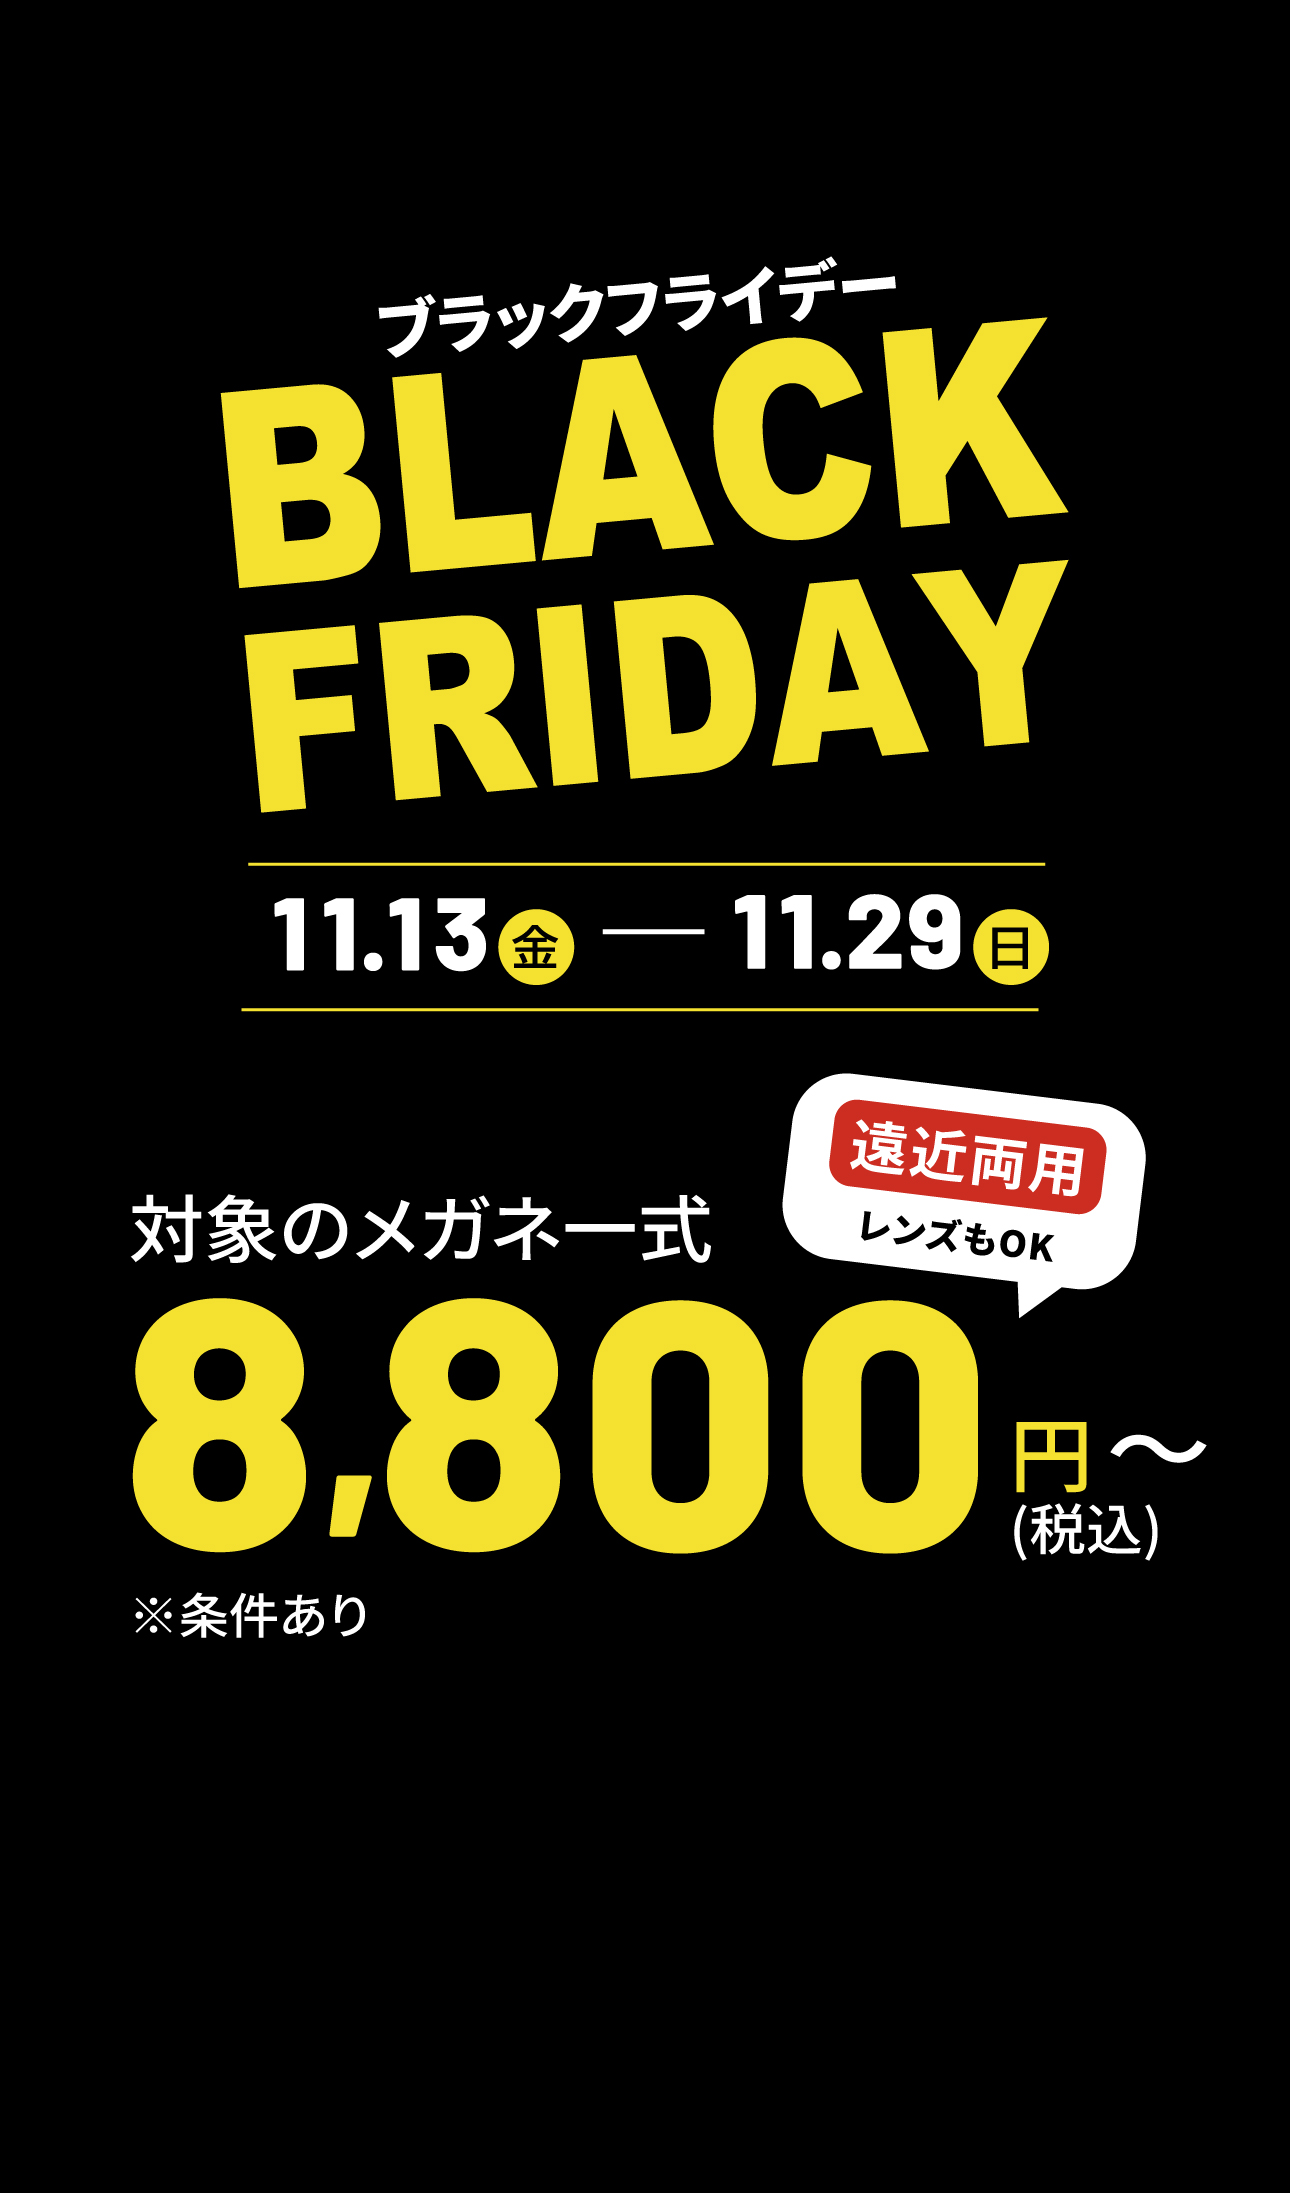
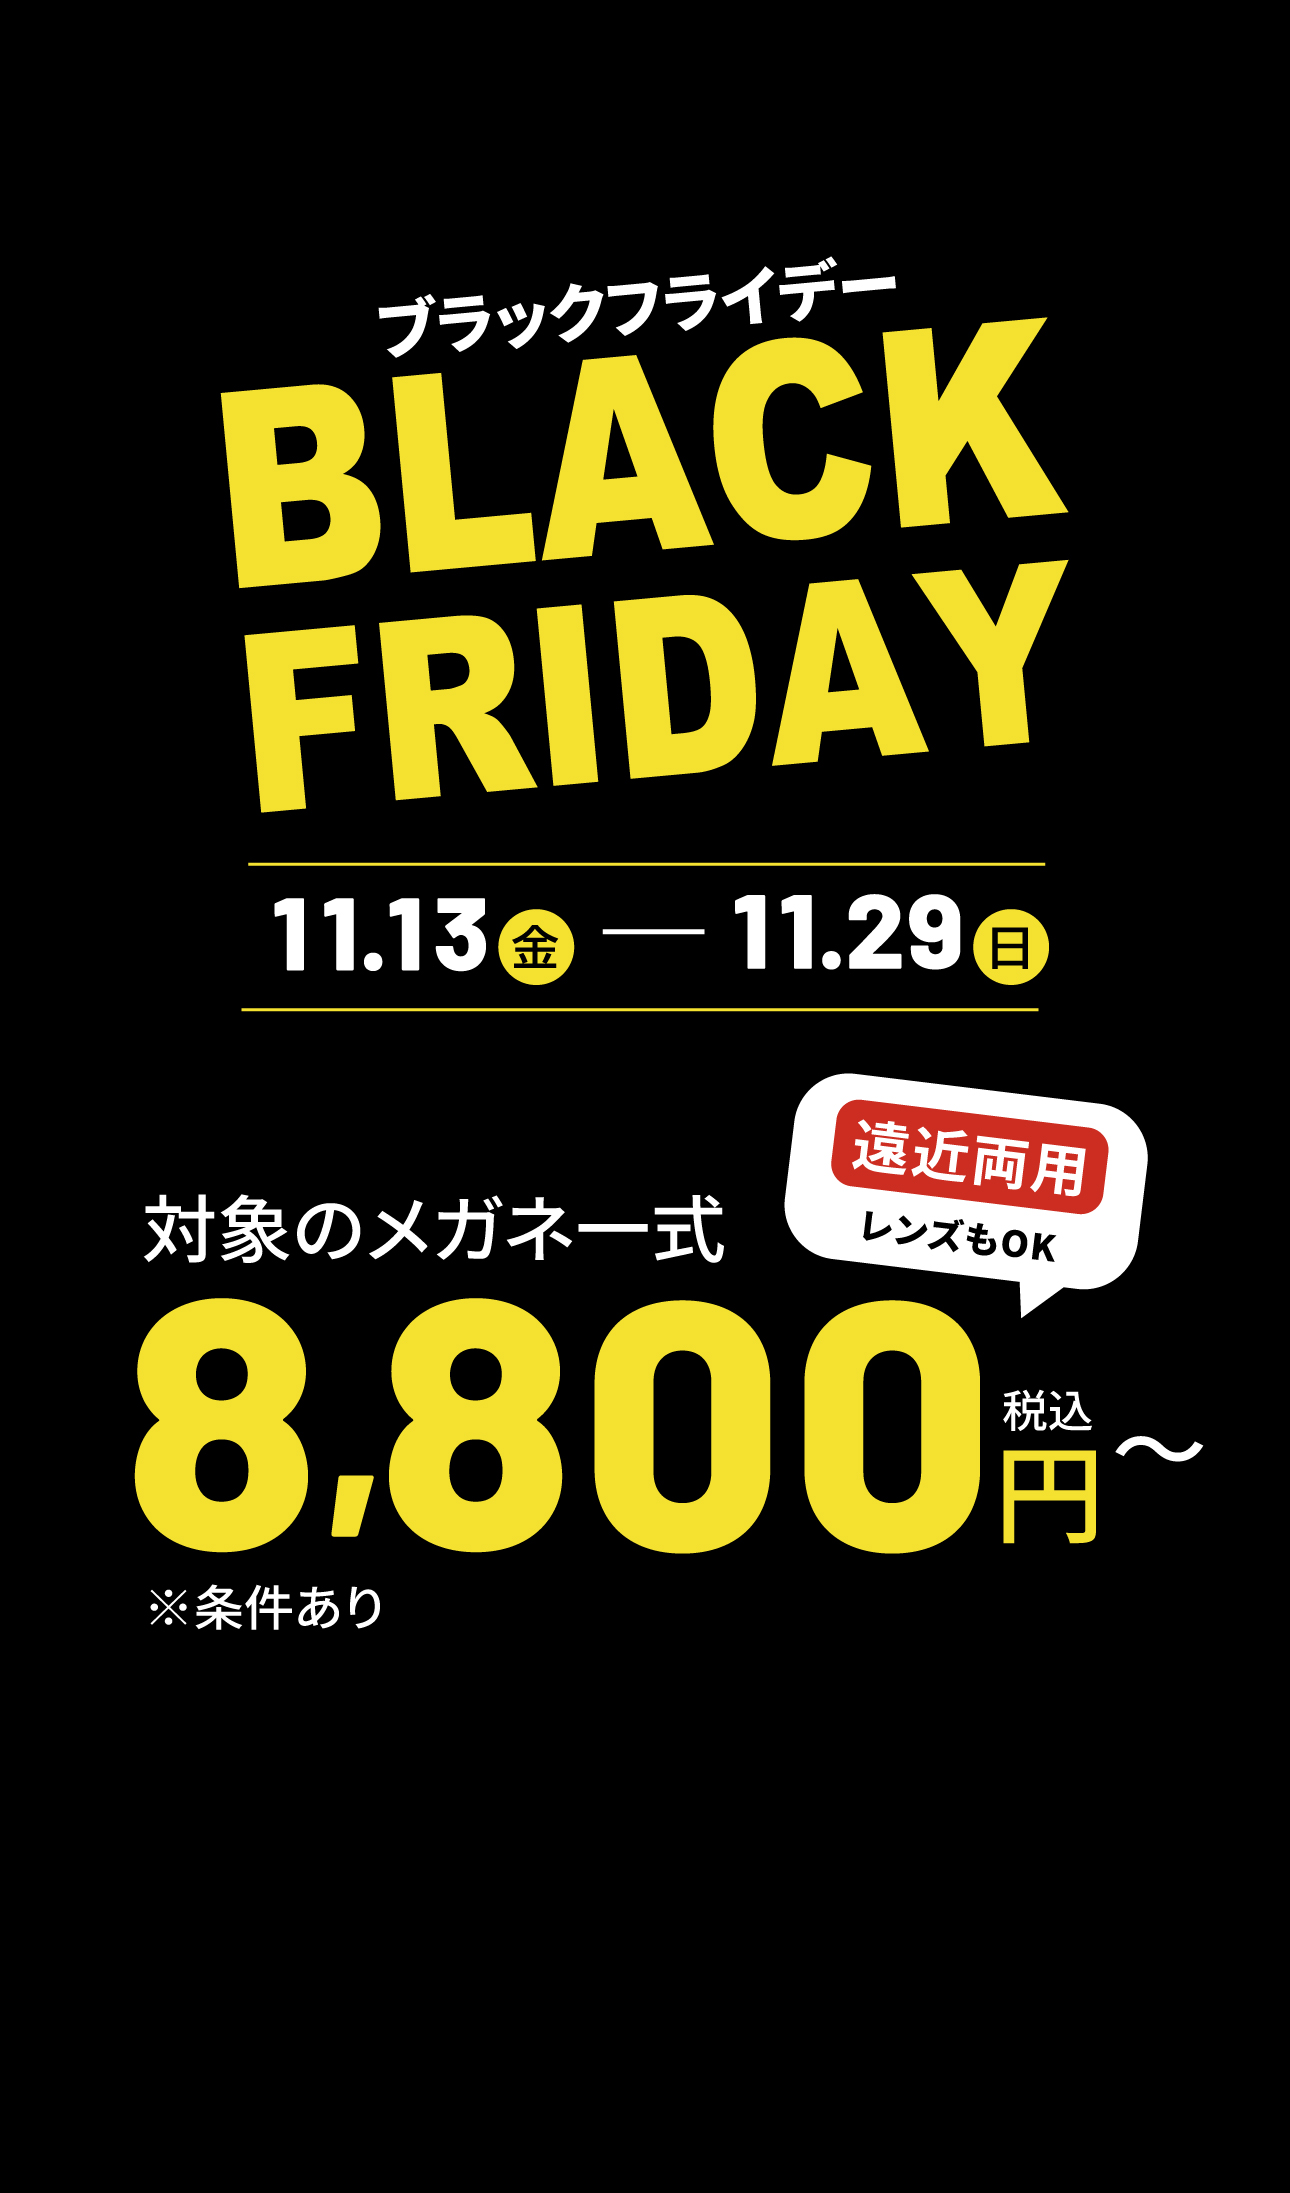
お得な内容：バッジをまっすぐ・遠近両用レンズを全面マーカー・税込を円の上に

diff --git a/index.html b/index.html
@@ -1603,10 +1603,19 @@
   .st4-hero-u .st4-tax { font-family: 'Noto Sans JP', sans-serif; font-size: 15px; font-weight: 900; margin: 4px 0 0 -2px; }
   @media (max-width: 1023px) { .st4 > .st4-hero { width: fit-content; margin-left: auto; margin-right: auto; display: flex; flex-direction: column; align-items: flex-start; } } /* スマホもバッジを「遠近両用レンズ」の左はしにそろえる（かたまりは真ん中・Iさん） */
   @media (max-width: 1023px) { .st4 > .st4-hero + .st4-ex { margin-top: 36px; } } /* ※と商品例が窮屈（Iさん）22→36px */
+  /* 10/30 Iさんのイラレ案2：バッジまっすぐ・遠近両用レンズは全面マーカー・「税込」を円の上に（円〜は数字の下にそろえる） */
+  .st4-hero .st4-badge { transform: none; border-radius: 0; padding: 6px 18px !important; }
+  .st4-hero-t { margin-top: 16px; }
+  .st4-hero-ul { background: var(--ac); padding: 1px 4px; }
+  .st4-hero-u { flex-direction: column-reverse; margin-left: 4px; }
+  .st4-hero-u small { font-size: 28px; }
+  .st4-hero-u .st4-tax { font-size: 12px; font-weight: 700; margin: 0 0 4px 1px; }
+  @media (max-width: 359px) { .st4-hero-u small { font-size: 24px; } .st4-hero-u .st4-tax { font-size: 11px; } }
+  @media (min-width: 1024px) { .st4-hero-t { margin-top: 20px; } }
   .st4-hero-n { font-size: 11px; font-weight: 700; color: var(--tx); margin-top: 10px; letter-spacing: -.03em; white-space: nowrap; } /* 1行に収める（Iさんのイラレ案どおり） */
   @media (max-width: 359px) { .st4-hero-y .num { font-size: 62px; } .st4-hero-ul { font-size: 18px; } .st4-hero-t { font-size: 14px; } .st4-hero-n { font-size: 11px; white-space: normal; letter-spacing: 0; } .st4-hero-n span { display: inline-block; } } /* 320pxは9.5pxだと小さすぎるので11pxで2行に（「割引を〜場合」は2行目にまとめる） */
   .st4-fin-y .num { font-family: 'Barlow', 'Noto Sans JP', sans-serif; } /* 10/30 合計枠の8,800も先頭と同じ形に */
-  @media (min-width: 1024px) { .st4-hero-y { margin-top: 12px; } .st4-hero-t { font-size: 22px; } .st4-hero-ul { font-size: 30px; } .st4-hero-u { margin-left: 10px; } .st4-hero-u small { font-size: 40px; } .st4-hero-u .st4-tax { font-size: 22px; } .st4-hero-n { font-size: 15px; margin-top: 16px; } }
+  @media (min-width: 1024px) { .st4-hero-y { margin-top: 12px; } .st4-hero-t { font-size: 22px; } .st4-hero-ul { font-size: 30px; } .st4-hero-u { margin-left: 8px; } .st4-hero-u small { font-size: 46px; } .st4-hero-u .st4-tax { font-size: 18px; margin-bottom: 6px; } .st4-hero-n { font-size: 15px; margin-top: 16px; } }
   @media (max-width: 400px) { .st4-rows .st4-r-t p { font-size: 13px; letter-spacing: -.03em; } .st4-rows .st4-r .st4-r-t { margin-right: 6px; } } /* 「新規」が入って長くなったぶん */
   @media (min-width: 1024px) { .st4-more.sl::before, .st4-more.sl::after { display: none; } } /* 10/29 「さらに2つの割引で」の＼／を外す（枠は2本同時の見出しだけ・Iさん A案） */
   .hear-why { display: none; }
@@ -1739,7 +1748,7 @@
         <div class="st4-hero-in">
         <!-- 10/30 Iさんのイラレ案：「遠近両用レンズ（黄の下線）も込みで」→ 8,800（Barlow ExtraBold）→ ※1行 -->
         <p class="st4-hero-t"><span class="st4-hero-ul">遠近両用レンズ</span>も込みで</p>
-        <p class="st4-hero-y"><span class="num">8<span class="cm">,</span>800</span><span class="st4-hero-u"><small>円〜</small><small class="st4-tax">(税込)</small></span></p>
+        <p class="st4-hero-y"><span class="num">8<span class="cm">,</span>800</span><span class="st4-hero-u"><small>円〜</small><small class="st4-tax">税込</small></span></p>
         <p class="st4-hero-n">※対象フレーム・標準レンズ・<span>割引をすべて併用した場合</span></p>
         </div>
       </div>
